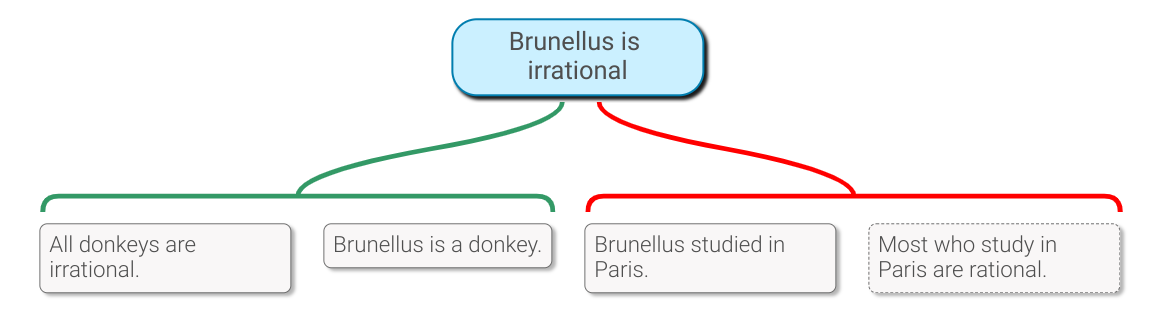
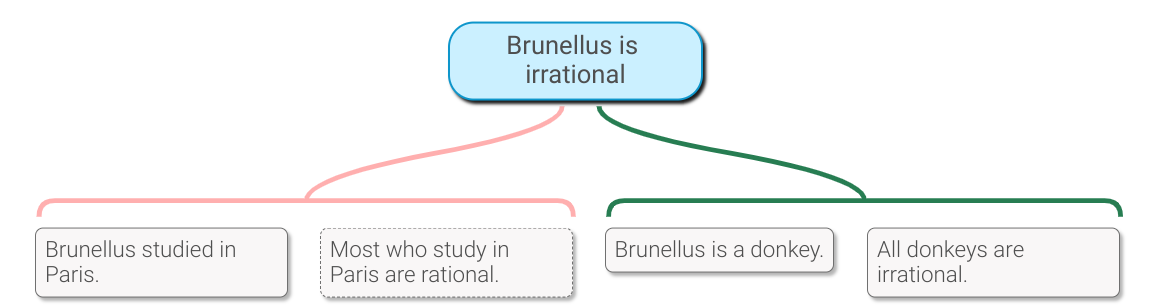
4.13.10 fix(docs): Update screenshots:
- new connector colours.

Changed region(s): [[0.0311, 0.0292, 0.9965, 0.9935]]

diff --git a/docs/CHANGELOG.md b/docs/CHANGELOG.md
@@ -9,6 +9,10 @@
   - Add note about linking/using templates (html and latex) with pandoc.
 - Add references to argmap specs?
 
+## argmap 4.13.10
+
+- `docs/`: Update screenshots (new connector colours).
+
 ## argmap 4.13.9
 
 - `mapjs/src/browser/dom-map-controller.js`:
